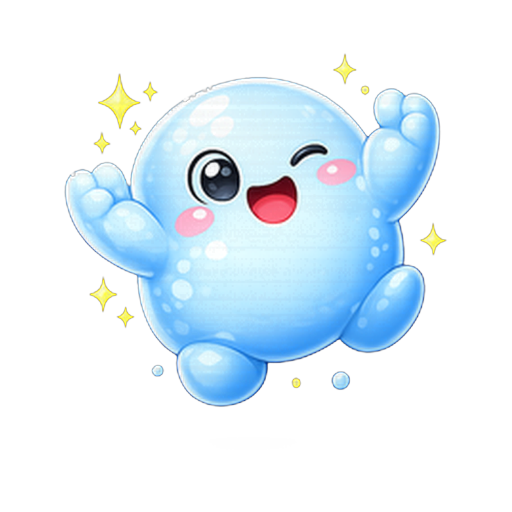
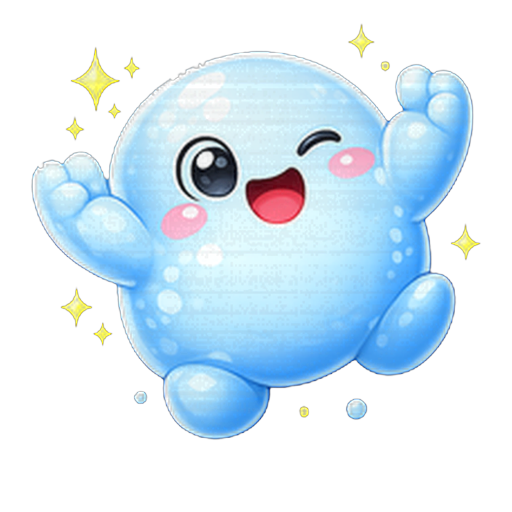
Fix water mascot bg flash (transition: all -> filter); enlarge joy.png

Changed region(s): [[0.0625, 0.0625, 0.9375, 0.875], [0.25, 0.75, 0.2812, 0.8125]]

diff --git a/frontend/src/styles.css b/frontend/src/styles.css
@@ -1908,7 +1908,8 @@ ul {
   object-fit: contain;
   flex-shrink: 0;
   filter: drop-shadow(0 4px 12px rgba(100, 160, 255, 0.3));
-  transition: all 0.3s ease;
+  transition: filter 0.3s ease;
+  background: transparent;
 }
 
 .water-card__header {
